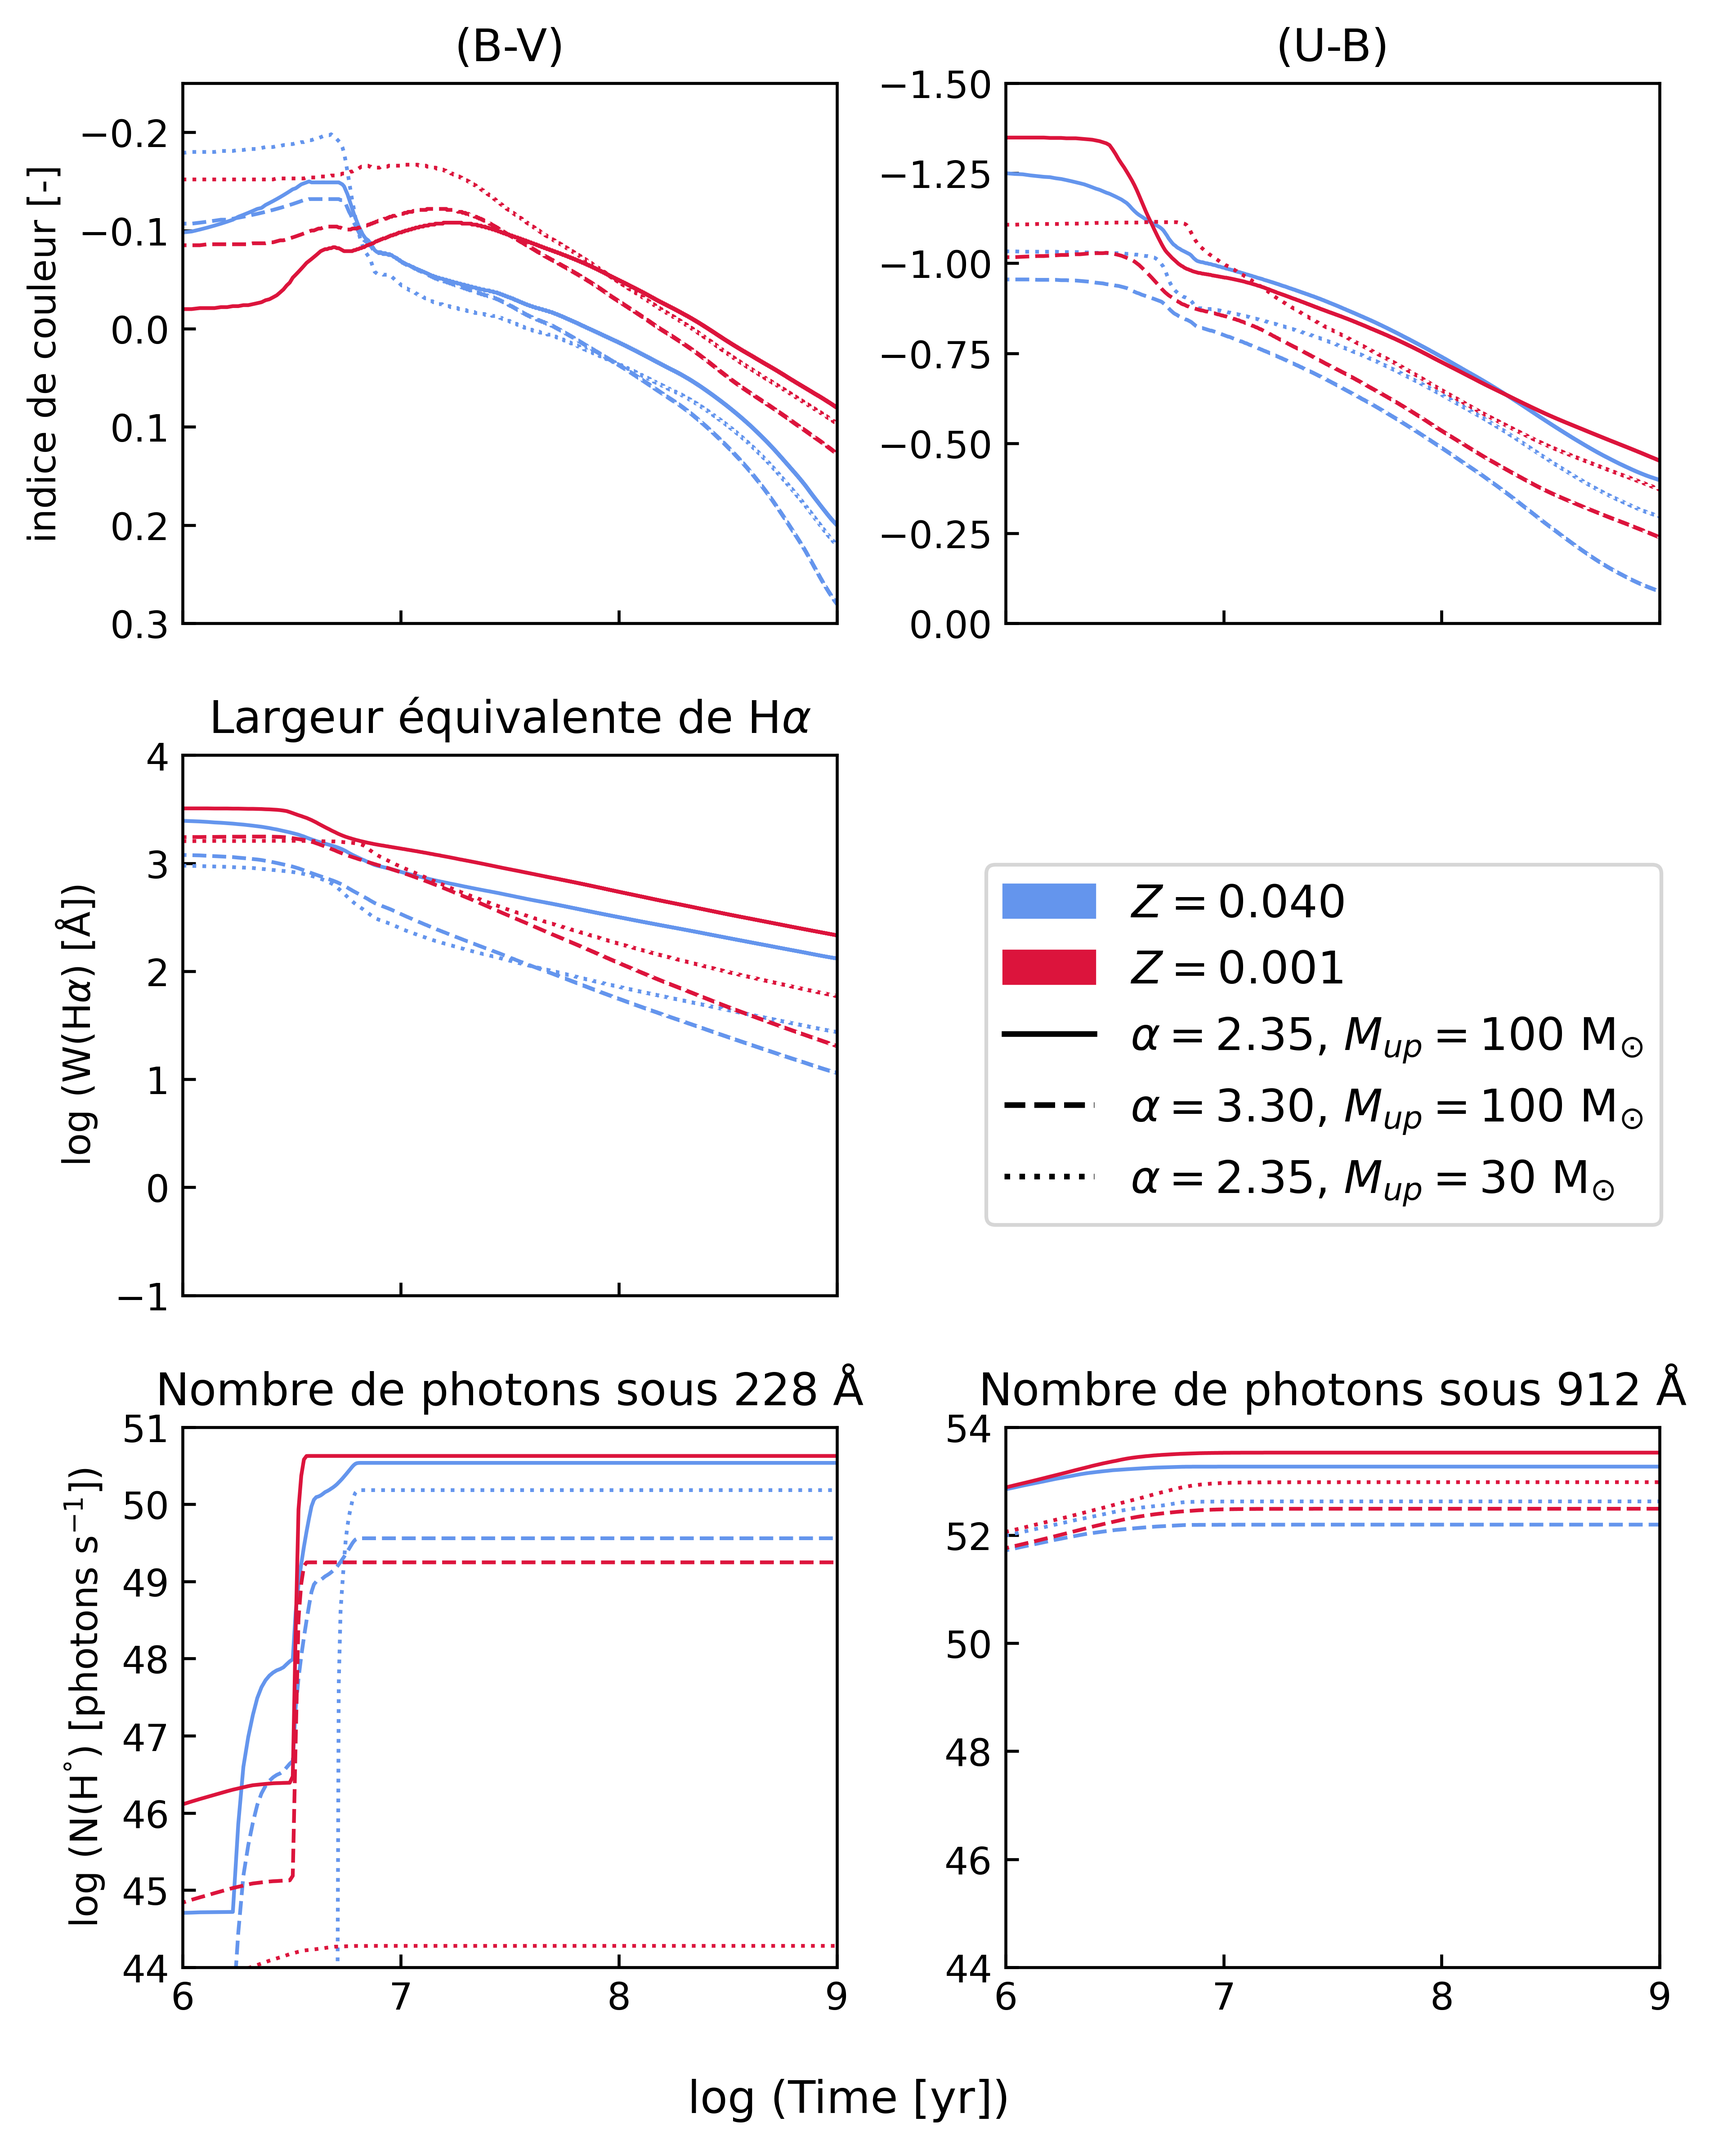
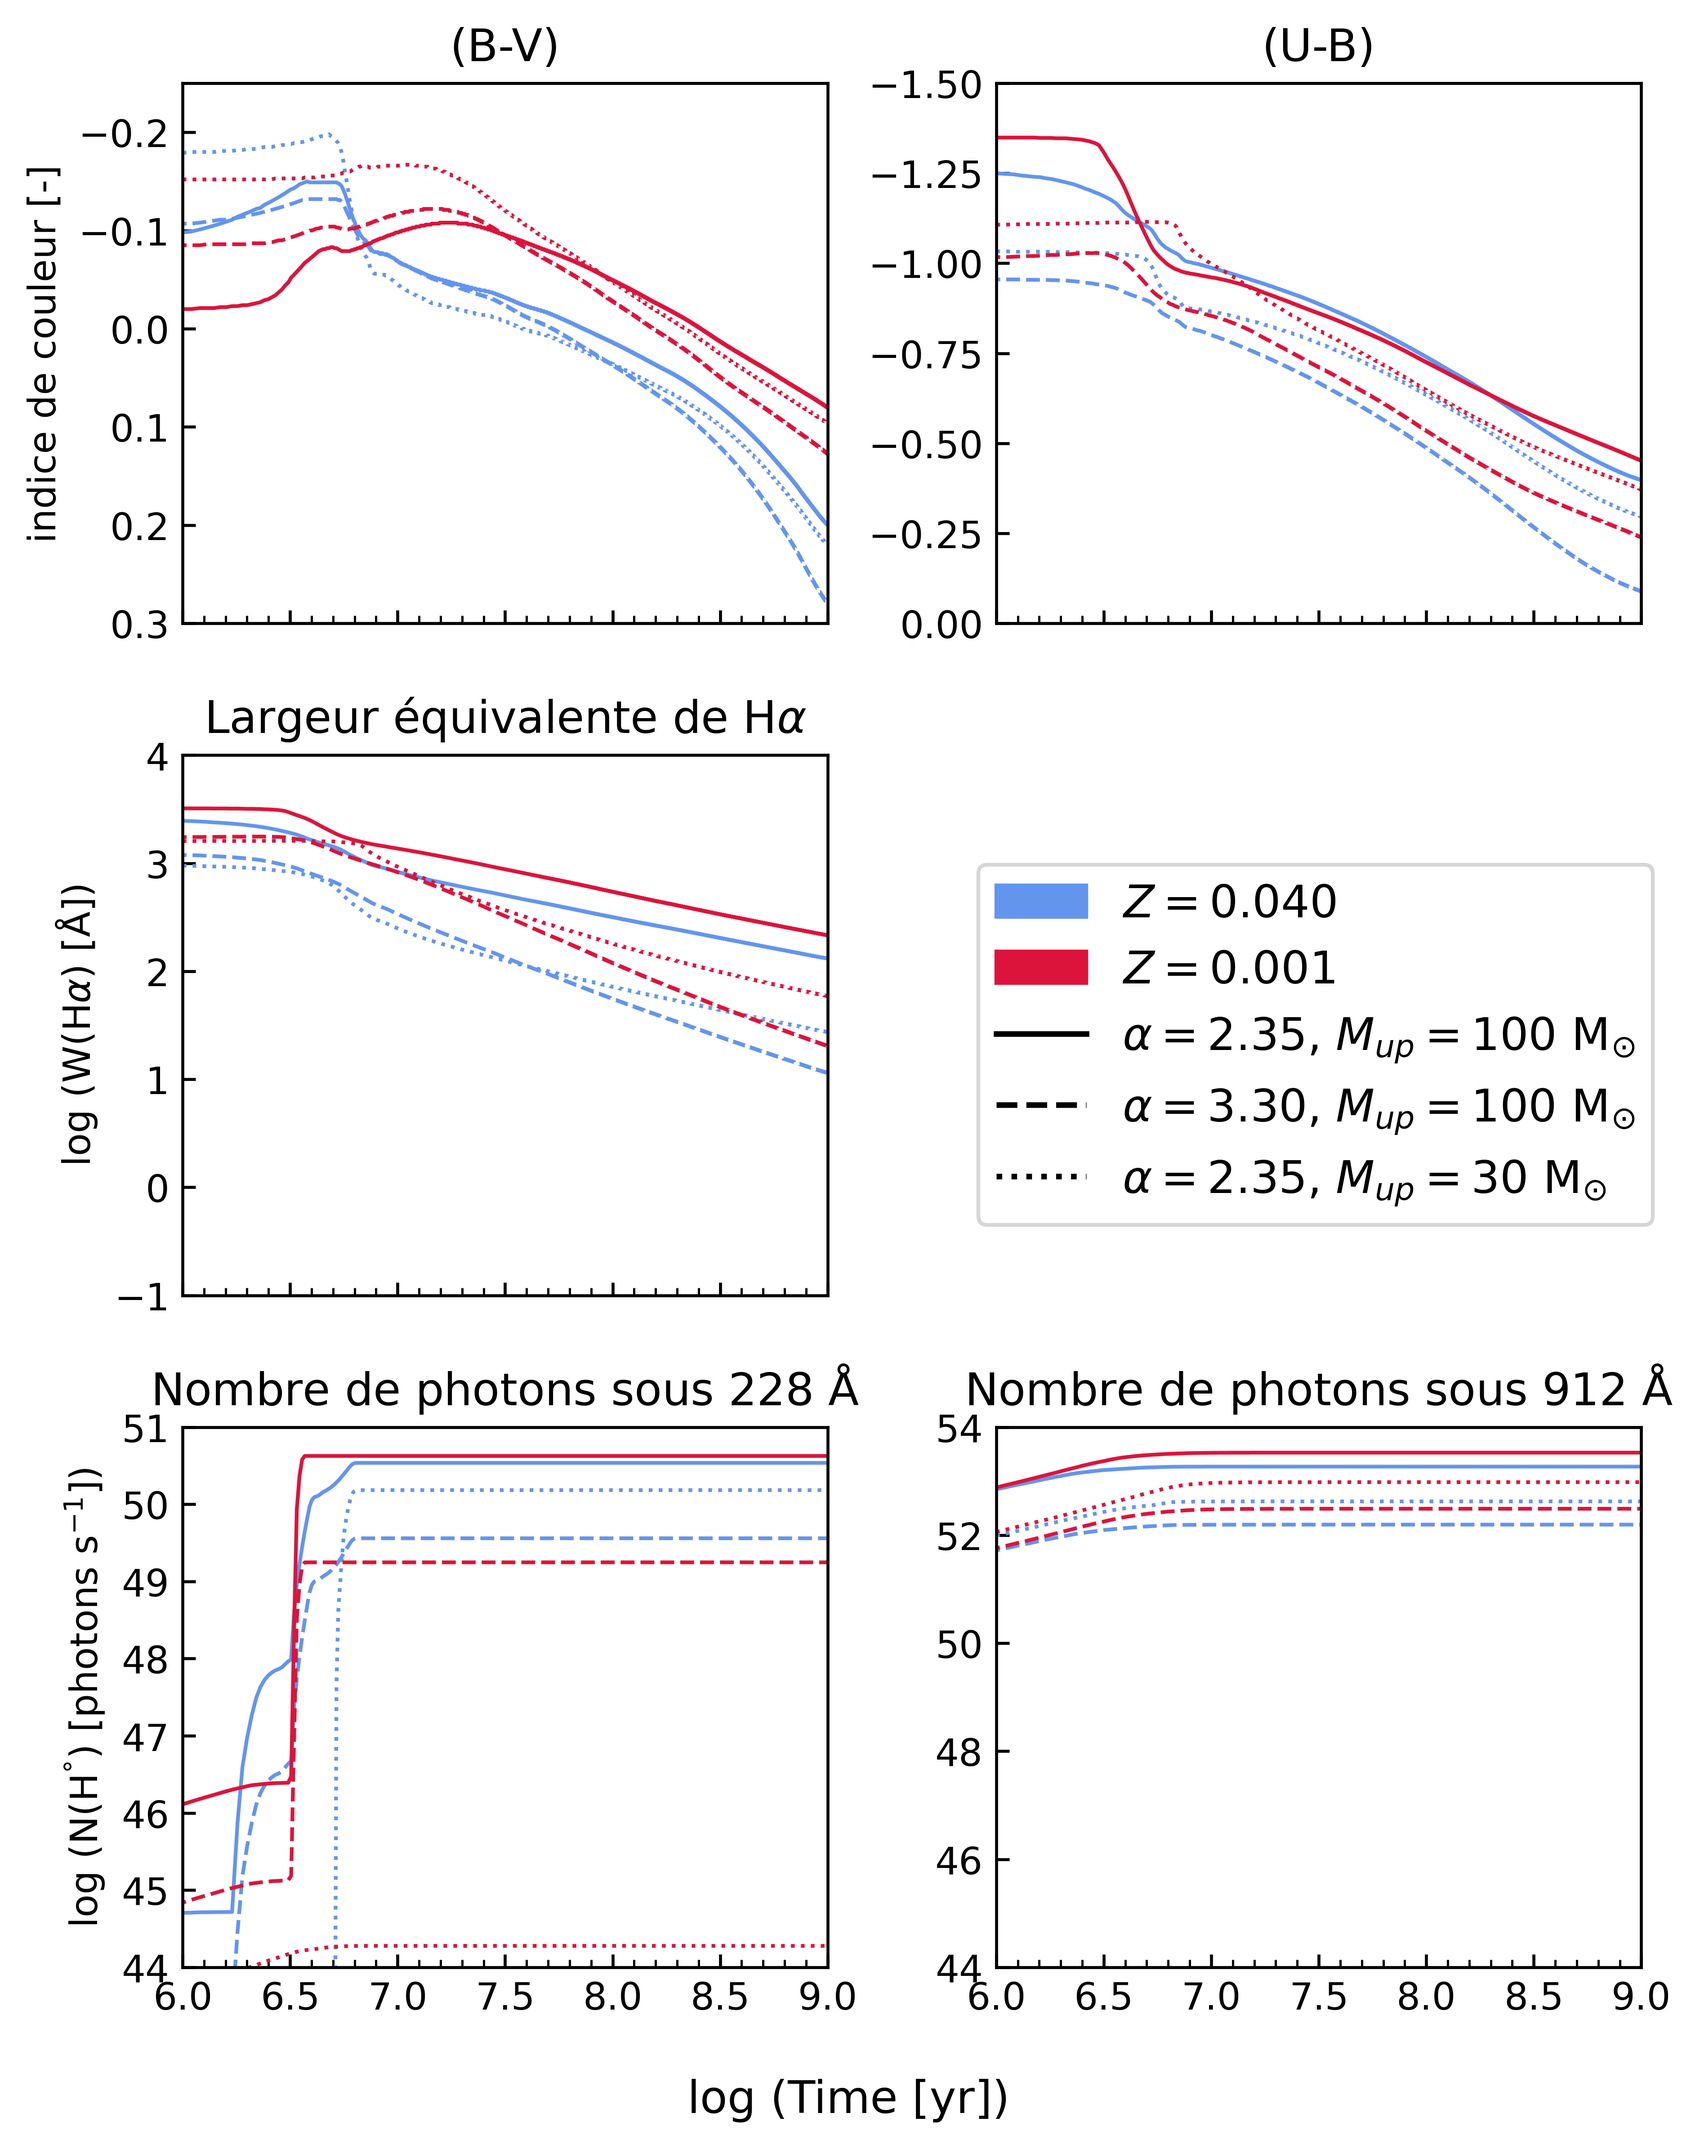
More ticks

diff --git a/main.py b/main.py
@@ -2,6 +2,7 @@ import numpy as np
 import matplotlib.pyplot as plt
 import matplotlib.lines as mlines
 import matplotlib.patches as mpatches
+import matplotlib.ticker as ticker
 
 from tools import get_array, plot_file
 
@@ -17,6 +18,10 @@ def make_5_panel_figure(star_formation_law: str):
             array = get_array(filename)
             axs[axis].plot(np.log10(array[:,0]), array[:,file_column+1], linestyle=style, color=color, linewidth=1)
         axs[axis].set_xlim(6, 9)
+        axs[axis].xaxis.set_major_locator(ticker.MultipleLocator(0.5))
+        axs[axis].xaxis.set_minor_locator(ticker.MultipleLocator(0.1))
+        axs[axis].xaxis.set_tick_params(direction="in", which="both")
+        axs[axis].xaxis.set_tick_params(direction="in", which="both")
         axs[axis].tick_params(direction="in")
 
     plot_file((0, 0), f"data/colors/b_v/{law}/bv_{law_f}_a.dat", "cornflowerblue")
@@ -67,5 +72,5 @@ def make_5_panel_figure(star_formation_law: str):
     # plt.show()
 
 
-make_5_panel_figure("continuous")
-make_5_panel_figure("instantaneous")
+# make_5_panel_figure("continuous")
+# make_5_panel_figure("instantaneous")
